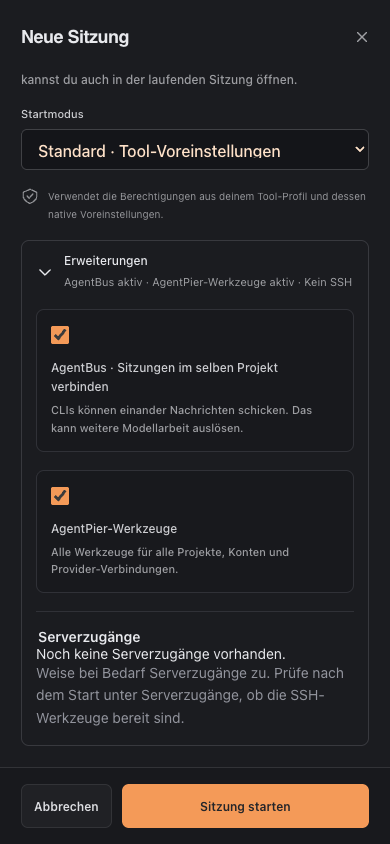
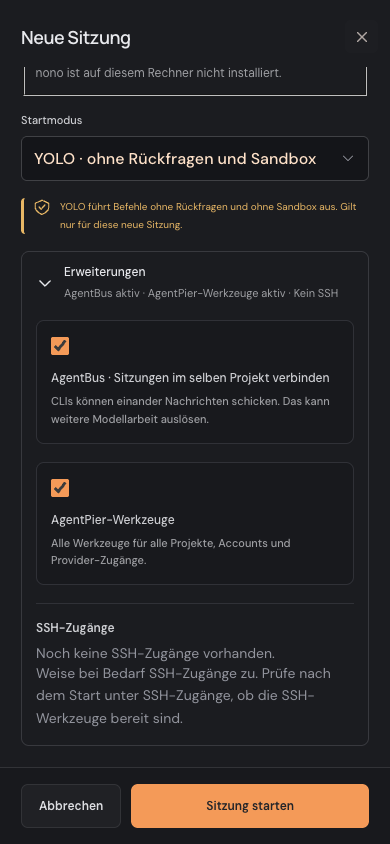
fix: look up wizard commands without passing request paths to the file system
CodeQL flagged the own-command lookup (js/path-injection) and the npm
person-name stripping (js/incomplete-multi-character-sanitization).

The resolve route now uses findCommand: bare names must not contain "..",
and absolute paths are walked from "/" one listed directory entry at a
time, so only names the file system returned reach stat/access. Paths with
".." segments or unlistable directories report "not found". The save path
keeps resolveCommand unchanged. npm person strings keep only the text
before the first "<" or "(" instead of a tag-stripping regex.

diff --git a/server/features/mcp-servers/command-resolution.js b/server/features/mcp-servers/command-resolution.js
@@ -22,6 +22,36 @@ export const executableFile = (file) => {
   }
 };
 
+/** The trimmed command when it is a plausible command text; else null. */
+function commandText(command) {
+  if (typeof command !== "string") return null;
+  const value = command.trim();
+  if (
+    !value ||
+    value.length > 4096 ||
+    /[\x00-\x1f\x7f]/.test(value) ||
+    !value.isWellFormed()
+  )
+    return null;
+  return value;
+}
+
+/** Bare names only: no directory part, no "." or ".." in any form. */
+function bareName(value) {
+  if (path.isAbsolute(value)) return null;
+  if (value.includes("..")) return null;
+  if (value.includes("/") || value.includes("\\")) return null;
+  return value;
+}
+
+const directoryEntries = (dir) => {
+  try {
+    return fs.readdirSync(dir);
+  } catch {
+    return [];
+  }
+};
+
 /**
  * Resolve a stdio command to an absolute path. Bare names are looked up on the
  * AgentPier service's PATH (not an interactive login shell) and the absolute path
@@ -33,15 +63,8 @@ export function resolveCommand(
   { pathEnv = process.env.PATH ?? "", exists = executableFile } = {},
 ) {
   const fail = () => problem(serverMessages.mcpServers.commandNotFound);
-  if (typeof command !== "string") throw fail();
-  const value = command.trim();
-  if (
-    !value ||
-    value.length > 4096 ||
-    /[\x00-\x1f\x7f]/.test(value) ||
-    !value.isWellFormed()
-  )
-    throw fail();
+  const value = commandText(command);
+  if (value === null) throw fail();
   if (path.isAbsolute(value)) {
     if (!exists(value)) throw fail();
     return value;
@@ -53,4 +76,42 @@ export function resolveCommand(
     if (exists(candidate)) return candidate;
   }
   throw fail();
+}
+
+/**
+ * The wizard's lookup before a save: the path a save would store, or null. It answers
+ * a request's question ("is there such a file?"), so it never passes a path spelled
+ * by the request to the file system. Bare names are joined to PATH directories;
+ * absolute paths are walked from "/" one listed directory entry at a time, so the
+ * checked path consists only of names the file system itself returned.
+ */
+export function findCommand(
+  command,
+  {
+    pathEnv = process.env.PATH ?? "",
+    exists = executableFile,
+    list = directoryEntries,
+  } = {},
+) {
+  const value = commandText(command);
+  if (value === null) return null;
+  if (path.isAbsolute(value)) {
+    // ".." would be resolved by text here but through links by a save: not found.
+    if (value.split(path.sep).includes("..")) return null;
+    let current = path.sep;
+    for (const segment of path.normalize(value).split(path.sep).filter(Boolean)) {
+      const entry = list(current).find((name) => name === segment);
+      if (entry === undefined) return null;
+      current = path.join(current, entry);
+    }
+    return exists(current) ? value : null;
+  }
+  const name = bareName(value);
+  if (name === null) return null;
+  for (const dir of String(pathEnv).split(path.delimiter)) {
+    if (!dir || !path.isAbsolute(dir)) continue;
+    const candidate = path.join(dir, name);
+    if (exists(candidate)) return candidate;
+  }
+  return null;
 }

diff --git a/tests/unit/mcp-command-resolution.test.js b/tests/unit/mcp-command-resolution.test.js
@@ -1,6 +1,10 @@
 import test from "node:test";
 import assert from "node:assert/strict";
+import fs from "node:fs";
+import os from "node:os";
+import path from "node:path";
 import {
+  findCommand,
   resolveCommand,
   sanitisedPrefix,
 } from "../../server/features/mcp-servers/command-resolution.js";
@@ -34,4 +38,48 @@ test("the tool prefix equals the validated name", () => {
   for (const bad of ["a.b", "a".repeat(31), "1abc", "", "a b", "_x", null])
     assert.throws(() => sanitisedPrefix(bad), { status: 400 });
   assert.equal(sanitisedPrefix("a".repeat(30)).length, 30);
+});
+
+test("the lookup finds bare commands on the PATH like a save does", () => {
+  const options = { pathEnv: "/nope:/opt/bin:/usr/bin", exists };
+  assert.equal(findCommand("tool", options), "/opt/bin/tool");
+  for (const command of [
+    "missing",
+    "./tool",
+    "bin/tool",
+    "",
+    "  ",
+    5,
+    "a\nb",
+    "..",
+    "a..b",
+  ])
+    assert.equal(findCommand(command, options), null, String(command));
+});
+
+test("the lookup walks absolute paths through listed directory entries", (t) => {
+  const dir = fs.realpathSync(fs.mkdtempSync(path.join(os.tmpdir(), "mcp-find-")));
+  t.after(() => fs.rmSync(dir, { recursive: true, force: true }));
+  const tool = path.join(dir, "tool");
+  fs.writeFileSync(tool, "#!/bin/sh\n", { mode: 0o755 });
+  fs.writeFileSync(path.join(dir, "data"), "x", { mode: 0o644 });
+  fs.mkdirSync(path.join(dir, "sub"));
+  assert.equal(findCommand(tool), tool);
+  assert.equal(findCommand(`  ${dir}//./tool `), `${dir}//./tool`);
+  assert.equal(findCommand(`${dir}/sub/../tool`), null);
+  for (const missing of ["data", "sub", "nope", "tool/x"])
+    assert.equal(findCommand(path.join(dir, missing)), null, missing);
+});
+
+test("the absolute lookup checks only paths built from listed names", () => {
+  const listed = [];
+  const tree = { "/": ["opt"], "/opt": ["tool"] };
+  const options = {
+    exists: (file) => file === "/opt/tool",
+    list: (dir) => (listed.push(dir), tree[dir] ?? []),
+  };
+  assert.equal(findCommand("/opt/tool", options), "/opt/tool");
+  assert.equal(findCommand("/opt/other", options), null);
+  assert.equal(findCommand("/etc/passwd", options), null);
+  assert.deepEqual([...new Set(listed)], ["/", "/opt"]);
 });

diff --git a/tests/integration/mcp-command-resolve.test.js b/tests/integration/mcp-command-resolve.test.js
@@ -4,13 +4,26 @@ import express from "express";
 import { mcpCommandRoutes } from "../../server/http/routes/mcp-commands.js";
 import { registerResponses } from "../../server/http/responses.js";
 
+/** The entries directly below `dir` in the fake tree of `executables`. */
+const listing = (executables, dir) => [
+  ...new Set(
+    [...executables]
+      .filter((file) => file.startsWith(dir === "/" ? "/" : `${dir}/`))
+      .map((file) => file.slice(dir === "/" ? 1 : dir.length + 1).split("/")[0]),
+  ),
+];
+
 async function app(t, executables) {
   const application = express();
   application.use(
     "/api",
     mcpCommandRoutes({
       mcpServers: {
-        resolveOptions: { pathEnv: "/fake/bin", exists: (file) => executables.has(file) },
+        resolveOptions: {
+          pathEnv: "/fake/bin",
+          exists: (file) => executables.has(file),
+          list: (dir) => listing(executables, dir),
+        },
       },
     }),
   );
@@ -60,4 +73,6 @@ test("an absolute path must be an executable file", async (t) => {
   const resolve = await app(t, new Set(["/opt/tool"]));
   assert.deepEqual((await resolve("/opt/tool")).body, { found: true, path: "/opt/tool" });
   assert.deepEqual((await resolve("/opt/other")).body, { found: false });
+  assert.deepEqual((await resolve("/opt")).body, { found: false });
+  assert.deepEqual((await resolve("/opt/x/../tool")).body, { found: false });
 });

diff --git a/server/http/routes/mcp-commands.js b/server/http/routes/mcp-commands.js
@@ -1,9 +1,9 @@
 import { Router } from "express";
-import { resolveCommand } from "../../features/mcp-servers/command-resolution.js";
+import { findCommand } from "../../features/mcp-servers/command-resolution.js";
 
 /**
- * The wizard's own-command lookup: the same PATH resolution a save uses, answered as
- * found or not. Nothing is executed; the name is never logged. Kept apart from
+ * The wizard's own-command lookup: the path a save would resolve, answered as found
+ * or not. Nothing is executed; the name is never logged. Kept apart from
  * /mcp-servers/:id so no server id can be mistaken for it.
  */
 export function mcpCommandRoutes(services) {
@@ -11,14 +11,8 @@ export function mcpCommandRoutes(services) {
   router.get("/mcp-commands/resolve", (req, res) => {
     res.set("Cache-Control", "no-store");
     const name = typeof req.query.name === "string" ? req.query.name : "";
-    try {
-      res.json({
-        found: true,
-        path: resolveCommand(name, services.mcpServers?.resolveOptions),
-      });
-    } catch {
-      res.json({ found: false });
-    }
+    const found = findCommand(name, services.mcpServers?.resolveOptions);
+    res.json(found ? { found: true, path: found } : { found: false });
   });
   return router;
 }

diff --git a/tests/unit/mcp-publisher-info.test.js b/tests/unit/mcp-publisher-info.test.js
@@ -73,6 +73,28 @@ test("PyPI: author or maintainer, Source before Repository before Homepage", () 
   });
 });
 
+test("npm person strings keep only the name before mail or link", () => {
+  const publisher = (author) => npmPublisher({ author }).publisher;
+  assert.equal(publisher("Jane Doe <jane@x> (https://x)"), "Jane Doe");
+  assert.equal(publisher("Jane Doe (https://x) <jane@x>"), "Jane Doe");
+  assert.equal(publisher("Jane Doe <jane@x"), "Jane Doe");
+  assert.equal(publisher("Jane Doe (https://x"), "Jane Doe");
+  assert.equal(publisher("Jane > Doe ) x"), "Jane > Doe ) x");
+  for (const author of [
+    "<script>alert(1)</script>Jane",
+    "<<script>script>alert(1)</script>",
+    "(<script>)alert(1)",
+    "<scr<script>ipt>",
+  ])
+    assert.equal(publisher(author), null, author);
+  fc.assert(
+    fc.property(fc.string(), (author) => {
+      const value = publisher(author);
+      assert.ok(value === null || !/[<(]/.test(value));
+    }),
+  );
+});
+
 test("publisher fields never throw and never carry control characters", () => {
   fc.assert(
     fc.property(fc.anything(), fc.anything(), (author, repository) => {

diff --git a/server/features/mcp-packages/publisher-info.js b/server/features/mcp-packages/publisher-info.js
@@ -37,10 +37,16 @@ export function webLink(value) {
   return url.href.replace(/\/$/, url.pathname === "/" ? "/" : "");
 }
 
+/** The text before the first "<" or "(": the name in npm's "Name <mail> (url)". */
+const nameBeforeContact = (text) => {
+  const cuts = [text.indexOf("<"), text.indexOf("(")].filter((cut) => cut >= 0);
+  return cuts.length ? text.slice(0, Math.min(...cuts)) : text;
+};
+
 /** "Name <mail> (url)" or { name }: the name only. */
 const personName = (person) =>
   typeof person === "string"
-    ? person.replace(/<[^>]*>|\([^)]*\)/g, "")
+    ? nameBeforeContact(person)
     : person && typeof person === "object" && typeof person.name === "string"
       ? person.name
       : "";

diff --git a/docs/mcp.md b/docs/mcp.md
@@ -188,6 +188,8 @@ per step (**Source and name**, **Settings**, the package panel, **Who may use it
   records the native forms and how they were verified.
 - **Own command lookup.** The own-command step shows where the command resolves on the
   AgentPier service's PATH (`GET /api/mcp-commands/resolve`, read-only, nothing runs).
+  An absolute path is checked by walking listed directory entries from `/`, so the
+  lookup reports directories it may not list and paths with `..` as not found.
 - **Ownership.** AgentPier records each entry it wrote by name and SHA-256 hash in
   `<data>/mcp-servers/servers.sqlite` (`cli_entries`); the native files get no marker.
   An entry is AgentPier's while it still matches that hash. Entries anyone else wrote
